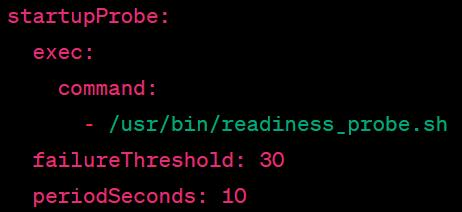
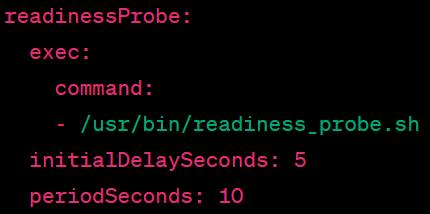
Refine the doc

diff --git a/doc/kubernetes/health-check.md b/doc/kubernetes/health-check.md
@@ -7,11 +7,16 @@
 
 # How do we Implement the health-check 
 - Leverage k8s probe tool
-    - K8s has three kinds of probe, [liveness, readiness and startup probes](https://kubernetes.io/docs/tasks/configure-pod-container/configure-liveness-readiness-startup-probes/#define-startup-probes) which can help us probe state inside container. we can use startup probe for our scenario.
-    - Startup probe has four probe types, http|TCP|gRPC|command, command type should be good for our scenario.
-    - Command type means that we could deploy one script inside container, k8s will call this script and get the exit code when start the container. If the script exit code is zero, k8s thinks it's healthy. If the script exit code is non-zero, k8s think it's not healthy. We can use different non-zero exit codes to recognize what the issue is if probe failed.
+    - K8s has three kinds of probe, [liveness, readiness and startup probes](https://kubernetes.io/docs/tasks/configure-pod-container/configure-liveness-readiness-startup-probes/#define-startup-probes) which can help us probe state inside container. we can use readiness probe for our scenario.
+    - Every probe has four probe types, http|TCP|gRPC|command, command type should be good for our scenario.
+    - Command type means that we could deploy one script inside container, k8s will call this script and record the exit code during the container's whole lifecycle. We can use different non-zero exit codes to recognize what the issue is if probe failed.
     - Start command probe example:
     - ![](startup_probe.jpg)
+- Controller action from k8s side
+    - In its post-check stage, controller will check the readiness probe exit code, if the exit code is zero, controller think it's healthy, post-check will proceed. If the exit code is non-zero, controller think it's not healthy and will re-check again and again util timeout. If timeout happens, controller will do fallback.
+- Why not startup and liveness probe
+    - For startup probe, k8s will help restart container if startup probe failed number meet limit, we don't need k8s do this, we will do fallback to handle this case other than do restart.
+    - For liveness probe, existing code has already implemented the liveness probe function. Supervisor exit-listener service inside container will kill itself container to handle critical service unexpected exit.
 
 # How do we implement the health-check script inside container
 - Script path and name
@@ -25,3 +30,7 @@
             - /usr/bin/readiness_probe_hook
         - Feature owner should implement the pythons script if needed
             - One note is that exit code should be 0 if all are good. If not, need to define the exit code clearly so that we can figure out the issue once happens.
+
+# Why check start service
+- Most sonic container has a start.sh which is for the real service initialization. Check the initialization finished or not.
+- Including call k8s startup script, k8s startup script will participate the upgrade process, proceeding to upgrade container must be after the k8s startup script finished, so need to check start service whether exit as expected.
